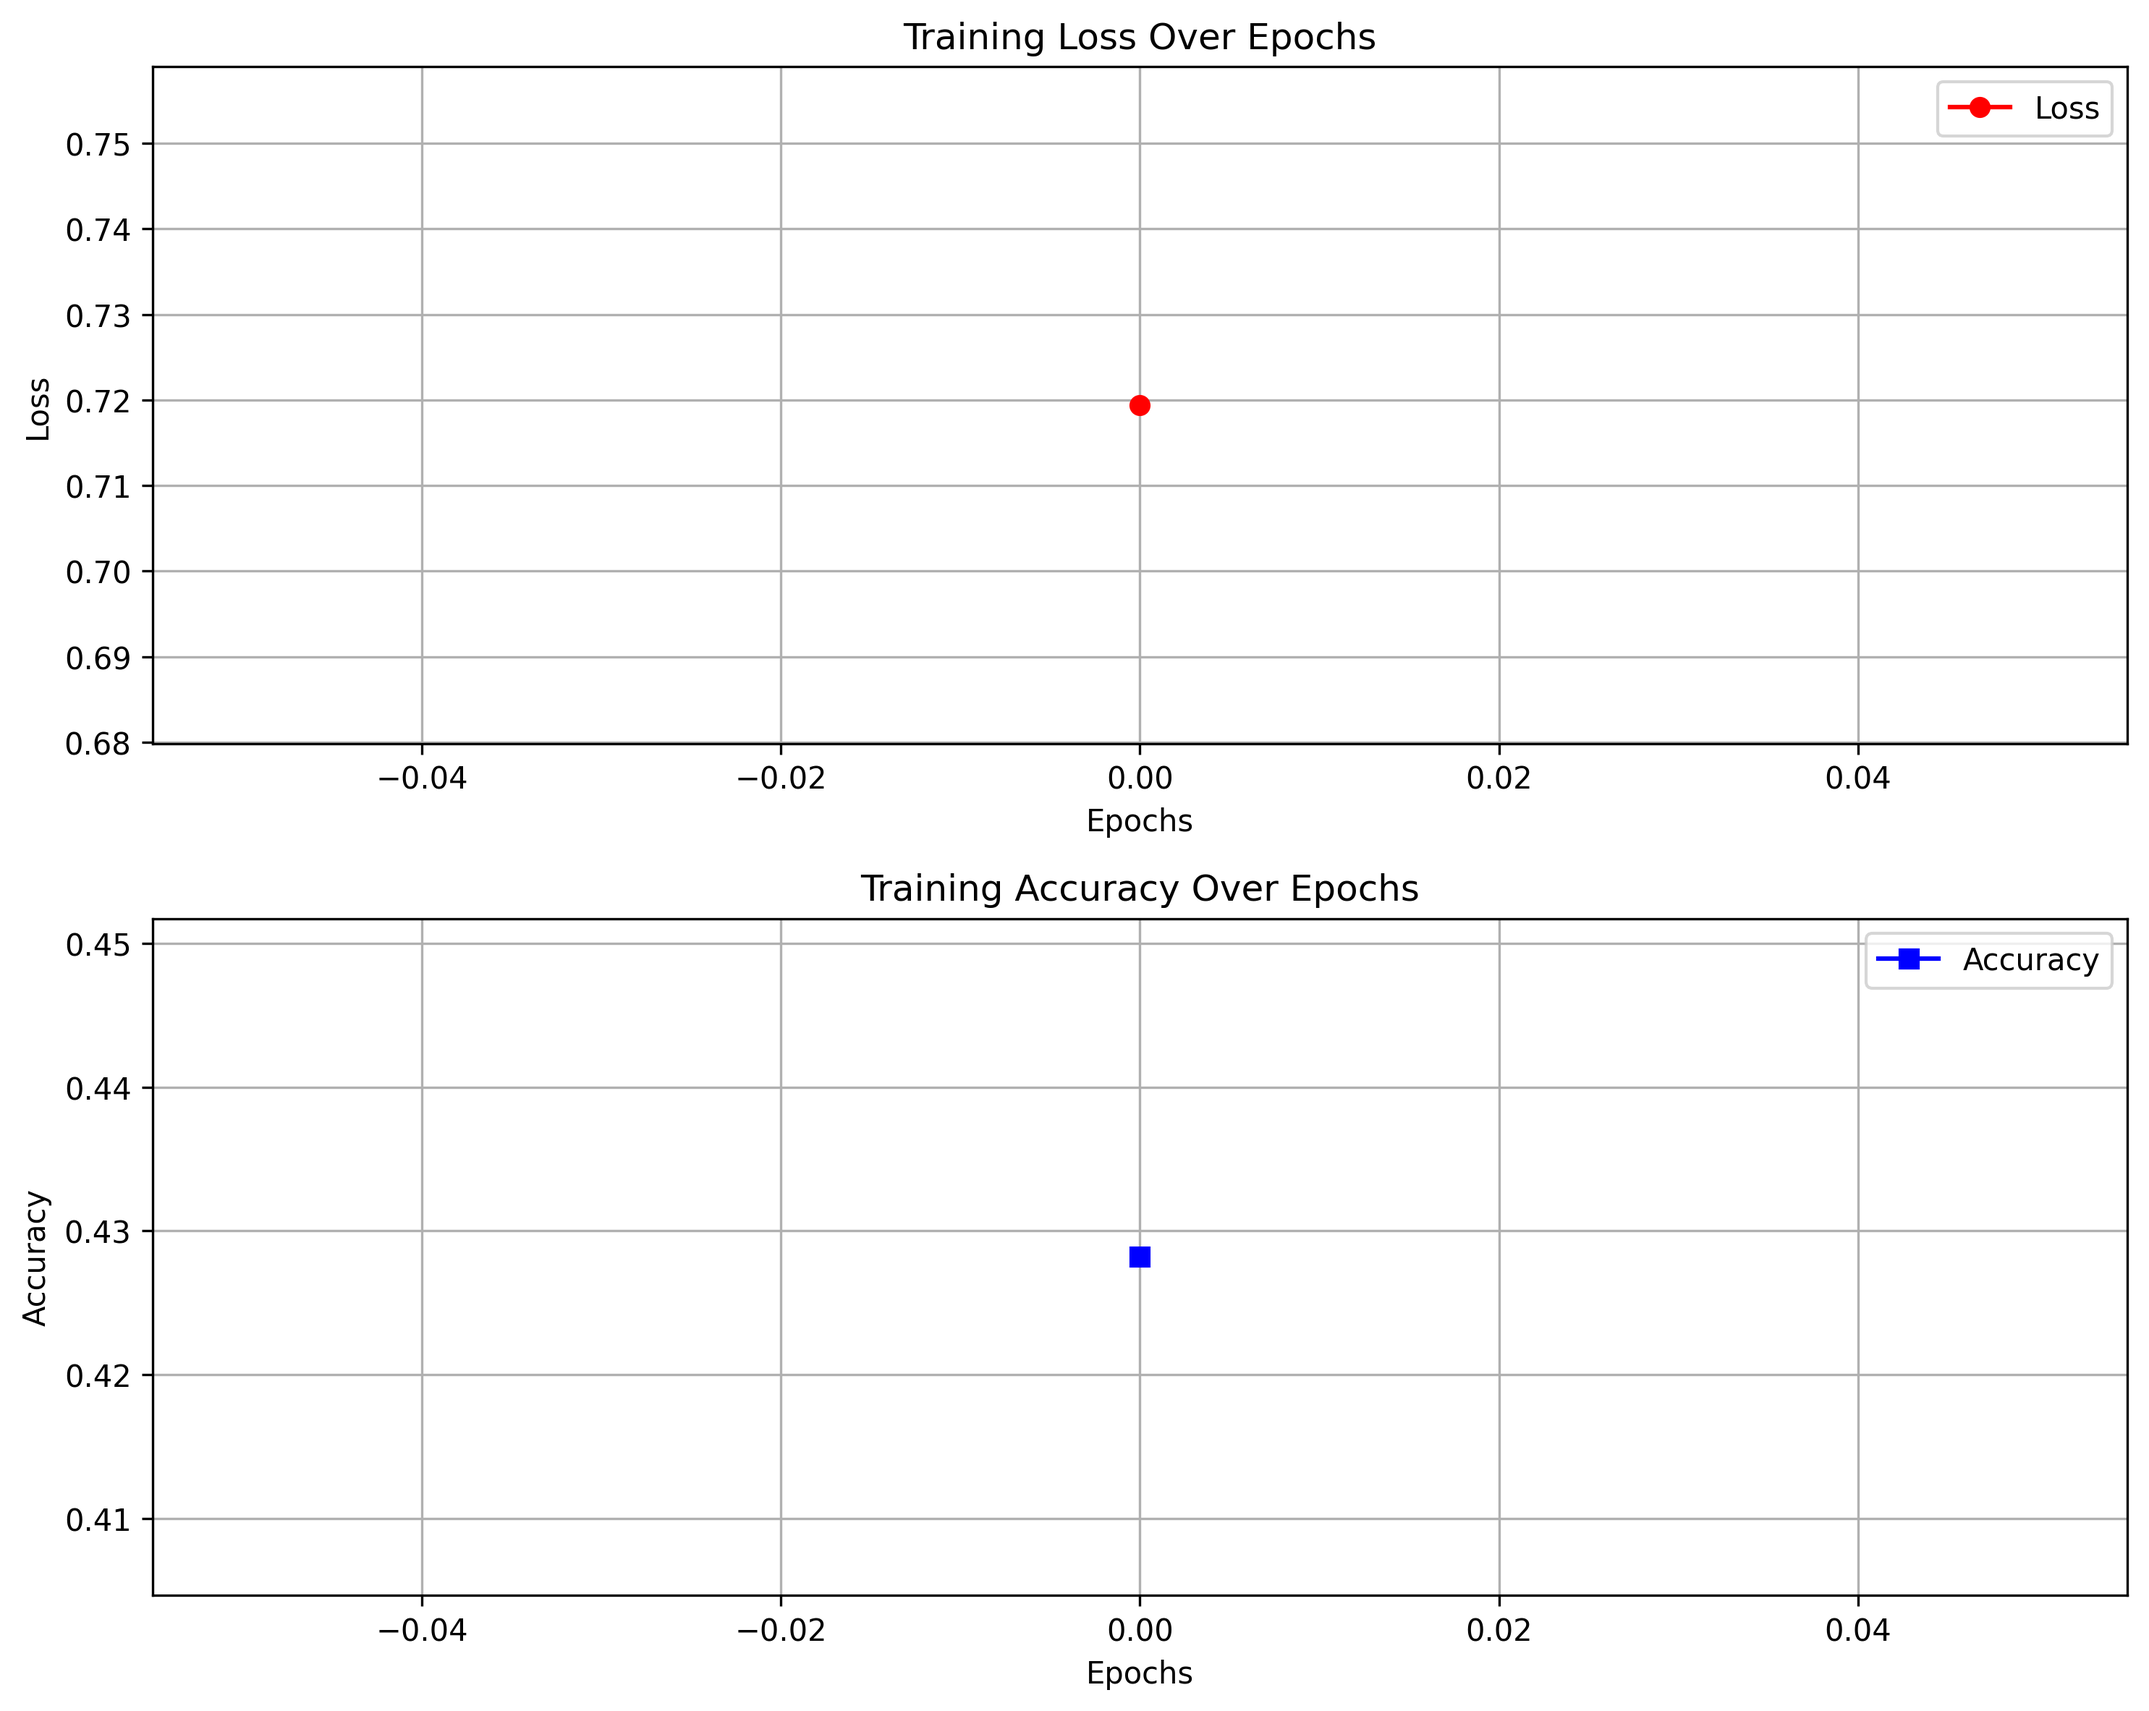
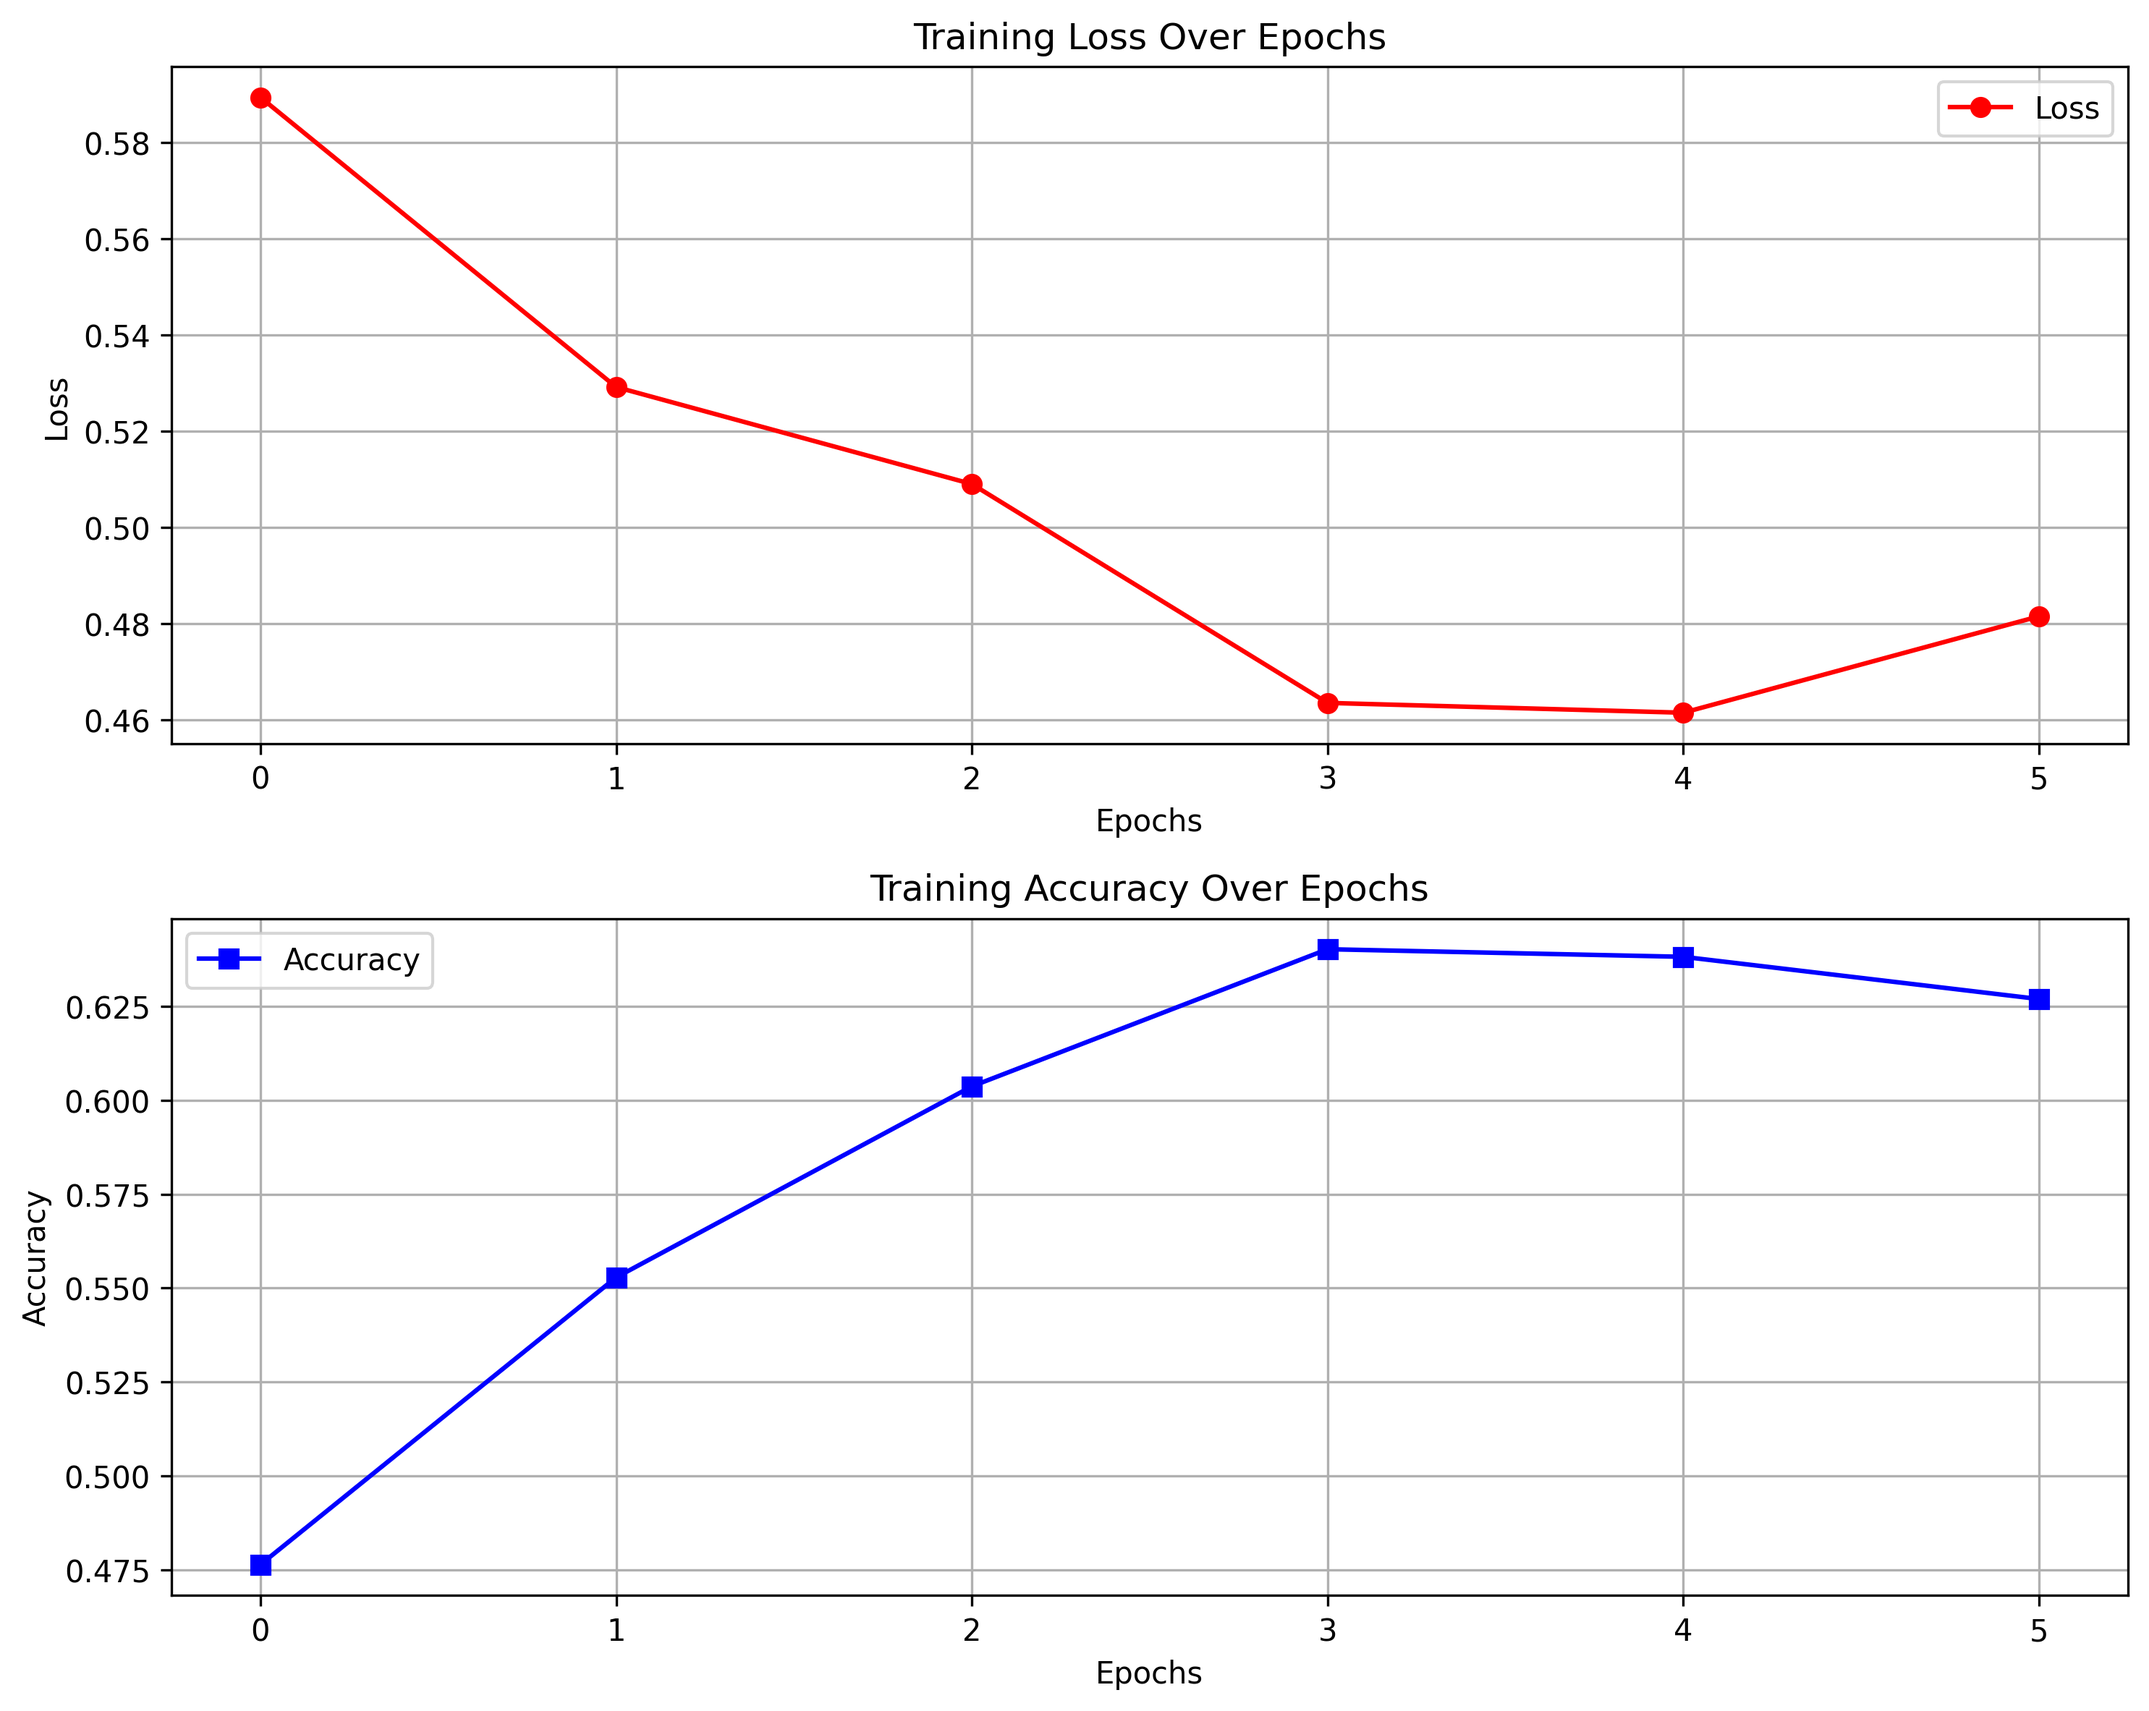
attempted to create tfrecord dataset.

diff --git a/pretraining/convert_pgn_to_tfrecord.py b/pretraining/convert_pgn_to_tfrecord.py
@@ -1,0 +1,92 @@
+import sys
+import os
+sys.path.append(os.path.abspath(os.path.join(os.path.dirname(__file__), '..')))
+
+import numpy as np
+import tensorflow as tf
+import chess.pgn
+import zstandard as zstd
+import io
+import core.chess_environment as chess_env
+
+GAMMA = 0.99  # Discount factor for importance sampling.
+
+def extract_game_result(headers):
+	"""Extracts game result from PGN headers and avoids incomplete games."""
+	result = headers.get("Result", "*")
+	if result == "1-0":
+		return 1  # White wins
+	elif result == "0-1":
+		return -1  # Black wins
+	elif result == "1/2-1/2":
+		return 0  # Draw
+	return None  # Ignore incomplete games
+
+def serialize_example(tensor, label, weight):
+	"""
+	Creates a serialized TensorFlow Example for TFRecord.
+	"""
+
+	tensor = tensor.astype(np.uint8)  # Ensure it's stored efficiently
+	feature = {
+		'tensor': tf.train.Feature(bytes_list=tf.train.BytesList(value=[tensor.tobytes()])),
+		'label': tf.train.Feature(int64_list=tf.train.Int64List(value=[label])),
+		'weight': tf.train.Feature(float_list=tf.train.FloatList(value=[weight]))
+	}
+	example_proto = tf.train.Example(features=tf.train.Features(feature=feature))
+	return example_proto.SerializeToString()
+
+def convert_pgn_to_tfrecord(zst_file, tfrecord_file):
+	"""
+	Reads a .pgn.zst file, extracts features, and writes to a TFRecord file.
+	"""
+	dctx = zstd.ZstdDecompressor()
+	with open(zst_file, "rb") as compressed:
+		with dctx.stream_reader(compressed) as reader, tf.io.TFRecordWriter(tfrecord_file) as writer:
+			text_stream = io.TextIOWrapper(reader, encoding="utf-8")
+
+			total_games = 0
+
+			while True:
+				game = chess.pgn.read_game(text_stream)
+				if game is None:
+					break  # End of file
+
+				board = game.board()
+				game_result = extract_game_result(game.headers)
+				if game_result is None:
+					continue  # Skip incomplete games
+
+				ply_count = sum(1 for _ in game.mainline_moves())  # Total plies in the game
+				current_ply = 0
+
+				for move in game.mainline_moves():
+					fen = board.fen()
+					turn = board.turn
+					relative_modifier = -1 if turn else 1
+
+					tensor = chess_env.fast_fen_to_example(fen)  # Convert FEN to tensor
+					importance = GAMMA ** (ply_count - current_ply)
+
+					label = int((game_result * relative_modifier) + 1)
+					
+					# Serialize and write example
+					writer.write(serialize_example(tensor, label, importance))
+					
+
+					board.push(move)
+					current_ply += 1
+				
+				# Live progress update
+				total_games += 1
+				sys.stdout.write(f"\rGames Processed: {total_games}")
+				sys.stdout.flush()
+
+if __name__ == "__main__":
+	import argparse
+	parser = argparse.ArgumentParser(description="Convert PGN .zst to TFRecord")
+	parser.add_argument("input_pgn_zst", type=str, help="Path to .pgn.zst file")
+	parser.add_argument("output_tfrecord", type=str, help="Output TFRecord file")
+	
+	args = parser.parse_args()
+	convert_pgn_to_tfrecord(args.input_pgn_zst, args.output_tfrecord)

diff --git a/pretraining/model_eda.py b/pretraining/model_eda.py
@@ -17,7 +17,7 @@ if __name__ == "__main__":
 	model = model_framework.exploratory_model(lr=1e-5, FILTERS=256)
 
 	zst_file = "data/LumbrasGigaBase 2024.pgn.zst"
-	dataset = chess_database.get_tf_dataset(zst_file, batch_size=4096).repeat()
+	dataset = chess_database.get_tf_dataset(zst_file, batch_size=64).repeat()
 
 	os.makedirs("models", exist_ok=True)
 	os.makedirs("figures", exist_ok=True)  # Ensure figures directory exists
@@ -29,7 +29,7 @@ if __name__ == "__main__":
 	plot_callback = model_framework.TrainingPlotCallback(save_interval=1, plot_path="figures/training/eda_model_training.png")
 
 	# Train model and capture history
-	history = model.fit(dataset, epochs=100, steps_per_epoch=10, callbacks=[checkpoint_callback, csv_logger, plot_callback], verbose=2)
+	history = model.fit(dataset, epochs=1000, steps_per_epoch=100000, callbacks=[checkpoint_callback, csv_logger, plot_callback], verbose=2)
 
 	# Save model
 	model.save("models/eda_model.h5")
